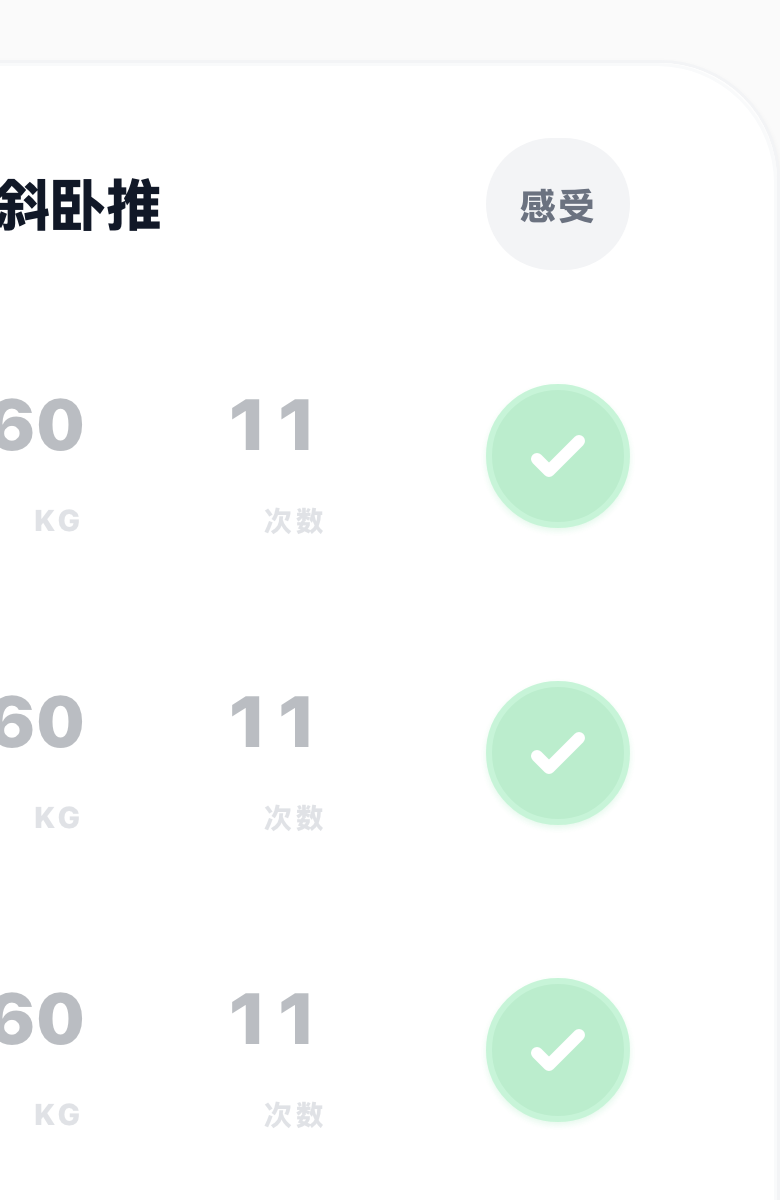
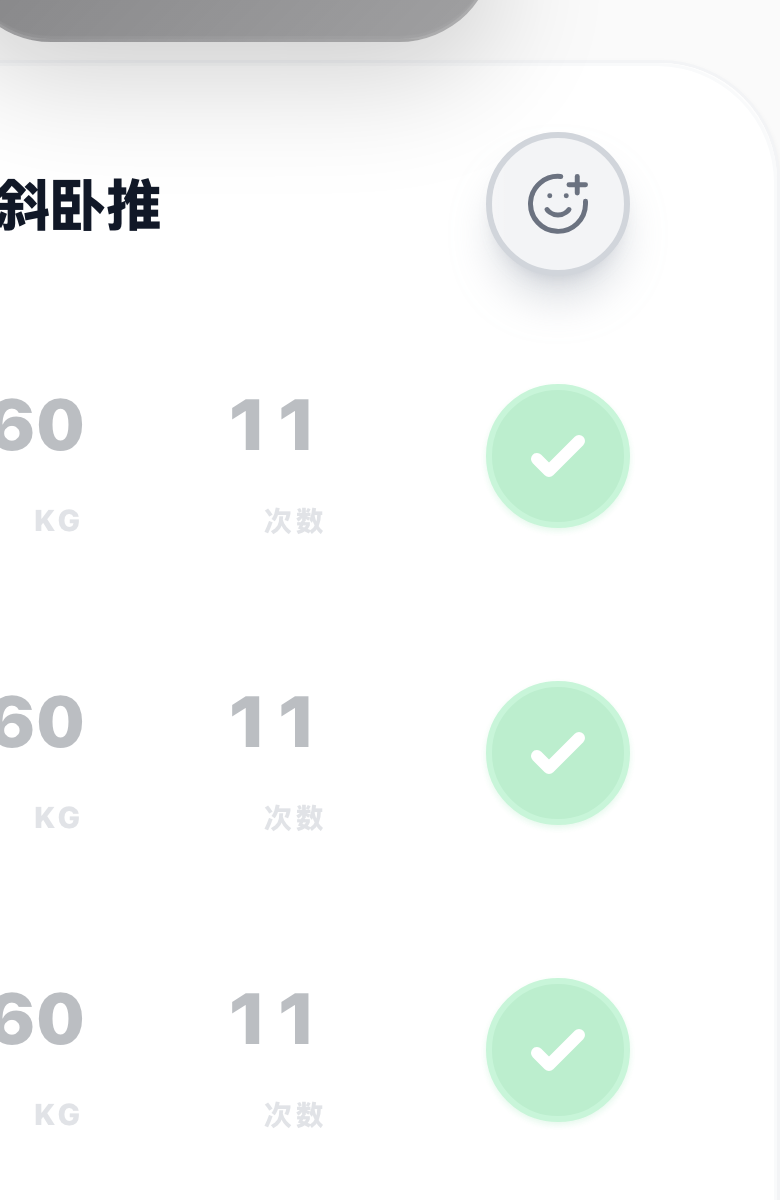
refactor(ui): #98 返工③④⑤——胶囊输入框 + 闸门图标缩比 + 感受入口图标化按钮
③「记录细节」输入框 rounded-2xl → rounded-full 胶囊（多行自然撑成 stadium）；
  语音按钮浏览器不可见=平台条件渲染（isSpeechInputSupported 仅 iOS 壳）已在
  PR 评论说明，非缺失。
② FeelGateAlert 图标 w-9 h-9 → w-7 h-7（28px）+ 间距 mb-2.5 → mb-2，
  iOS Alert 比例精致感。
④⑤ 感受入口质感重做：文字「感受」→ lucide SmilePlus 人脸图标（1.8pt 线条对齐
  卡头 SF Symbols 复刻体系，「加一条主观感受」语义）；形态 48×44 竖胶囊 →
  48×48 正圆（与对齐目标=组行勾选圆同径，-my-2.5 等效抵消行高）；质感=
  勾选圆同族灰系：border-2 border-gray-300 描边 + shadow-lg shadow-gray-400/40
  投影 + 同款 shimmer 扫光（白带 /60 灰底可感知）+ active:scale-95。
  几何复验 centerXDelta=0 btnW/H=48/48（98-alignment-geometry.json 已刷新）。

截图重拍：gate-blocked（新图标比例）、表单 4 张 + note 胶囊特写
（98-note-capsule-closeup.png 新增）、state-completed + 对齐特写（新按钮）、
WebKit 玻璃 2 张。tsc 0 错，760/760 全绿。

diff --git a/src/components/execution/plugins/ResistanceCard.tsx b/src/components/execution/plugins/ResistanceCard.tsx
@@ -1,4 +1,5 @@
 import React, { useState, useEffect, useRef, useCallback } from 'react';
+import { SmilePlus } from 'lucide-react';
 import { ExerciseAction, LoadAnchors, LoadAnchor } from '../../../types/protocol';
 import { deviationBuffer } from '../../../services/DeviationBuffer';
 import { DeviationWarningModal } from '../../DeviationWarningModal';
@@ -281,19 +282,25 @@ export const ResistanceCard: React.FC<ResistanceCardProps> = ({
         name={exerciseName}
         type={exercise.type}
         feelEntry={allSetsCompleted ? (
-          /* #98 feel 入口（2026-10-01 项目主人修正版：纯文字灰胶囊）。
-             对齐硬规则：按钮水平中心 = 组行勾选圆列（第4列 80px 内 48px 圆）水平中心线——
-             勾选圆圆心在内容区右缘内 40px（80px 列内居中），48px 宽按钮右缘贴 header 右缘
-             时圆心在右缘内 24px → mr-[16px] 左移 16px 恰好同心。垂直随 header 行居中；
-             -my-2 抵消 44px 按钮的行高膨胀，两态标题不跳。灰系与卡片灰家族一致 */
+          /* #98 feel 入口（2026-10-01 项目主人修正版：纯文字灰胶囊；同日返工④补按钮质感、
+             ⑤文字改人头图标）。形态：48×48 正圆——与对齐目标（组行勾选圆列 48px 圆）同径，
+             图标居中视觉平衡优于竖胶囊；水平对齐硬规则不变：圆心 = 勾选圆列水平中心线，
+             48px 宽右缘贴 header 右缘时圆心在右缘内 24px → mr-[16px] 左移 16px 恰好同心。
+             垂直随 header 行居中；-my-2.5 抵消 48px 圆的行高膨胀（同 -my-2@44px 等效），
+             两态标题不跳。图标：lucide SmilePlus（「加一条主观感受」语义，iMessage 同族），
+             1.8pt 线条对齐卡头 SF Symbols 复刻体系。质感语言 = 勾选圆同族灰系：
+             border-2 描边（gray-300）+ 彩色投影（shadow-gray-400/40）+ 同款扫光层，
+             「这是可按的按钮」而非信息标签 */
           <button
             type="button"
             aria-label={`记录${exerciseName}全部组感受`}
             onClick={() => { haptic('light'); onFeelEntry?.(); }}
-            className="mr-[16px] -my-2 flex h-11 w-12 shrink-0 items-center justify-center rounded-full
-              bg-gray-100 text-gray-500 transition-transform duration-200 active:scale-95 focus:outline-none"
+            className="mr-[16px] -my-2.5 flex h-12 w-12 shrink-0 items-center justify-center rounded-full border-2 border-gray-300
+              bg-gray-100 text-gray-500 shadow-lg shadow-gray-400/40 transition-transform duration-200 active:scale-95 focus:outline-none relative overflow-hidden"
           >
-            <span className="text-[13px] font-black tracking-wide leading-none">感受</span>
+            {/* 勾选圆同款 shimmer 扫光（白带加强到 /60：灰底上保持可感知的微光扫过） */}
+            <span className="absolute inset-0 w-full h-full bg-gradient-to-r from-transparent via-white/60 to-transparent -translate-x-full animate-[shimmer_2s_infinite] pointer-events-none" />
+            <SmilePlus className="relative h-[22px] w-[22px]" strokeWidth={1.8} aria-hidden="true" />
           </button>
         ) : undefined}
       />

diff --git a/src/components/execution/FeelGateAlert.tsx b/src/components/execution/FeelGateAlert.tsx
@@ -33,9 +33,9 @@ export const FeelGateAlert: React.FC<FeelGateAlertProps> = ({ groups, onEnd, onG
         data-testid="feel-gate-alert"
         className="bg-white/95 backdrop-blur-xl w-[270px] rounded-[40px] shadow-2xl overflow-hidden animate-in fade-in zoom-in-95 duration-300"
       >
-        {/* Icon + Title */}
+        {/* Icon + Title（图标 w-7 h-7：iOS Alert 比例，精致感 2026-10-01 返工③） */}
         <div className="flex flex-col items-center pt-5 px-4">
-          <svg className="w-9 h-9 text-star-accent mb-2.5" fill="none" viewBox="0 0 24 24" stroke="currentColor">
+          <svg className="w-7 h-7 text-star-accent mb-2" fill="none" viewBox="0 0 24 24" stroke="currentColor">
             <path
               strokeLinecap="round"
               strokeLinejoin="round"

diff --git a/src/components/execution/FeelModal.tsx b/src/components/execution/FeelModal.tsx
@@ -359,8 +359,9 @@ export const FeelModal: React.FC<FeelModalProps> = ({ target, onConfirm, onSkip 
             )}
           </div>
 
-          {/* 语义补充：动作级一句话（支持语音）；确认走右上角对勾，底部无按钮 */}
-          <div className="mt-5 flex items-center gap-2 rounded-2xl border border-gray-100 bg-gray-50 px-4 py-2">
+          {/* 语义补充：动作级一句话（支持语音）；胶囊输入（rounded-full，多行时自然撑成
+              stadium）；确认走右上角对勾，底部无按钮 */}
+          <div className="mt-5 flex items-center gap-2 rounded-full border border-gray-100 bg-gray-50 px-4 py-2">
             <textarea
               rows={1}
               maxLength={500}
